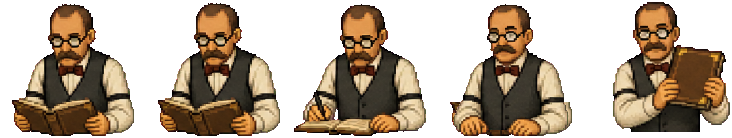
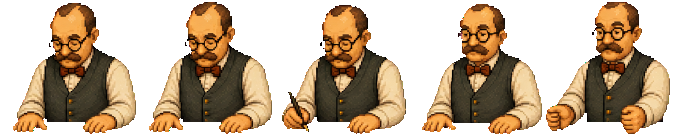
The hotel clerk on his register and Ozymandia behind her ball, from the master
- The hotel clerk's hands rest on the register's pages, the pen on the page
  (cast-unify 16, drawn against a picture of the last attempt in his room).
  His mask (the register in front of him) is off: he stops at its far edge.
  The drawing's fifth pose came back as raised fists and is not used.
- Ozymandia: fingertips to her temples, humming, a hand raised, a palm out
  for the fee -- nothing of her below the table's back edge, the ball, box and
  tea pot in front of her as her room draws them.
- Cast-unify cap 20 -> 35 (Tyler: "Yes").

Lessons carried:
- tests/master-cut-edges.test.mjs counts an edge pixel as key only if it is
  more magenta than the figure just inside it: Ozymandia's own purple hair
  failed the first version; the fringed Registrar still fails (3.6%).
- tests/counter-surface.test.mjs reads the edge across the waist, where the
  figure's centre can be behind a ball or a book's spine.
- doc 55 section 8: show the generator the last attempt in its room.

Claude-Session: https://claude.ai/code/session_01FXbCupzwLJAEr7fqqWYP8A

diff --git a/docs/00-errata.md b/docs/00-errata.md
@@ -2759,3 +2759,5 @@ What Tyler still decides: acceptance of the art (errata 72 E, at the full playth
 **H · Open: resting hands shift between poses.** The generator drew each pose with the resting hand a little elsewhere: the Registrar's moves 17-20 px when he stamps or looks up, Winnie's about 20 px in Room 5 when she writes. Registered on the head, the hand pops; registered on the hand, the head would. Not yet corrected; it is the next thing looked at on these four.
 
 **I · Fanshawe, and three that are not yet right (2026-11-06).** Fanshawe is drawn from the master (cast-unify 14), his waist on his desk's back edge (y 495): the drawing he replaces stood with a strip of wall between his waist and the desk. A redraw is sized so the head, crown to shoulders, matches the drawing it replaces (`tools/art/face-size.py`); a face-width measure put him 21% too large and was replaced. Not yet right, and left as they were: the HOTEL CLERK (two drawings, cast-unify 14 and 15, kept his hands behind the register, never on its pages), OZYMANDIA (twice she laid her hands on a table whose ball, box and teapot stand in front of her; next, fingertips to her temples, which needs nothing on the table), and the UNDERTAKER (his plane in both hands in every pose is right, but his forearms reach farther than his bench is deep, and both its edges slant: the plane would overhang the front). `tools/art/bust-register.py --bottom` now holds a counter figure's point of contact still between poses. The room's scale curve is not a guide behind a counter: it is extrapolated there (it puts a man at Room 10's back counter taller than Thad at its front). Fifteen of twenty cast-unify operations used.
+
+**J · The hotel clerk and Ozymandia (2026-11-06).** Drawn by cast-unify 16 against a picture of the last attempt standing in its own room, which is what finally moved the clerk's hands onto the register's pages (three briefs in words had not); his drawing's fifth pose came back as two raised fists and is not used. Ozymandia's fingertips are at her temples, the ball before her (her room's plane 1 draws it in front). `tests/master-cut-edges.test.mjs` now counts an edge pixel as key only when it is more magenta than the figure just inside it: her purple hair reaches her edge and is hers. Sixteen of thirty-five cast-unify operations used (Tyler raised the cap from 20, 2026-11-06).

diff --git a/docs/55-full-game-build.md b/docs/55-full-game-build.md
@@ -202,4 +202,5 @@ Every row here shipped past a green suite and was found by Tyler playing, by a r
 - **Every pose's hands need something to act on, in that room.** Winnie's writing poses had nothing to write on at Room 7's end of the counter (Tyler: "What is she writing on here?") -- the closed book there is narrower than her hands and the only other thing is a tall paper stack. A pose that does something is checked against what the room gives it there; where the room gives nothing, the figure does something that needs nothing (she waits, arms folded, as the master draws her). Compose every frame in place before showing anyone (`tools/art/counter-frames.py`) and look at each, not the rest frame alone.
 - **A version is drawn against the character's own approved drawing, not the master alone.** Asked for Winnie's waiting poses from her master crop only, the generator gave her a black dress, darker skin and a coarser grain; with her Room 5 cut beside it, it matched. Give the generator the nearest shipping drawing of that character for colour and pixel size.
 - **No key on the edge, judged against Thad's edge.** The first master cuts kept a maroon and purple ring where the drawing's soft edge met the magenta (Tyler, zoomed on the Registrar's hair and ear). Thad's two outer rings are dark and carry no magenta; an edge block of the grid snap now takes only its pure figure pixels or becomes backdrop. Held by `tests/master-cut-edges.test.mjs` for every sheet cut from the master. Two patches after the fact (a ring recolour, an un-mix) were tried and made it worse, and were not kept: fix the step that makes the defect.
+- **Show the generator the last attempt in its room, not only words.** Three briefs asking the hotel clerk to reach his hands onto the register drew them at his waist each time; a picture of that attempt standing behind the register, with what went wrong named, moved them. The same picture shows a figure's room before its first drawing: what stands in front of it, what its hands can reach.
 - **Art needs the "OpenAI" environment.** A session without the key writes a brief (`reference/room-NN/<subject>/brief.md`, a verbatim prompt, a reference image, a generator, the cap in `art/staging/caps.json`) and hands Tyler a paste-ready prompt for a session in that environment. The barrel and Deke's walk were made this way.
